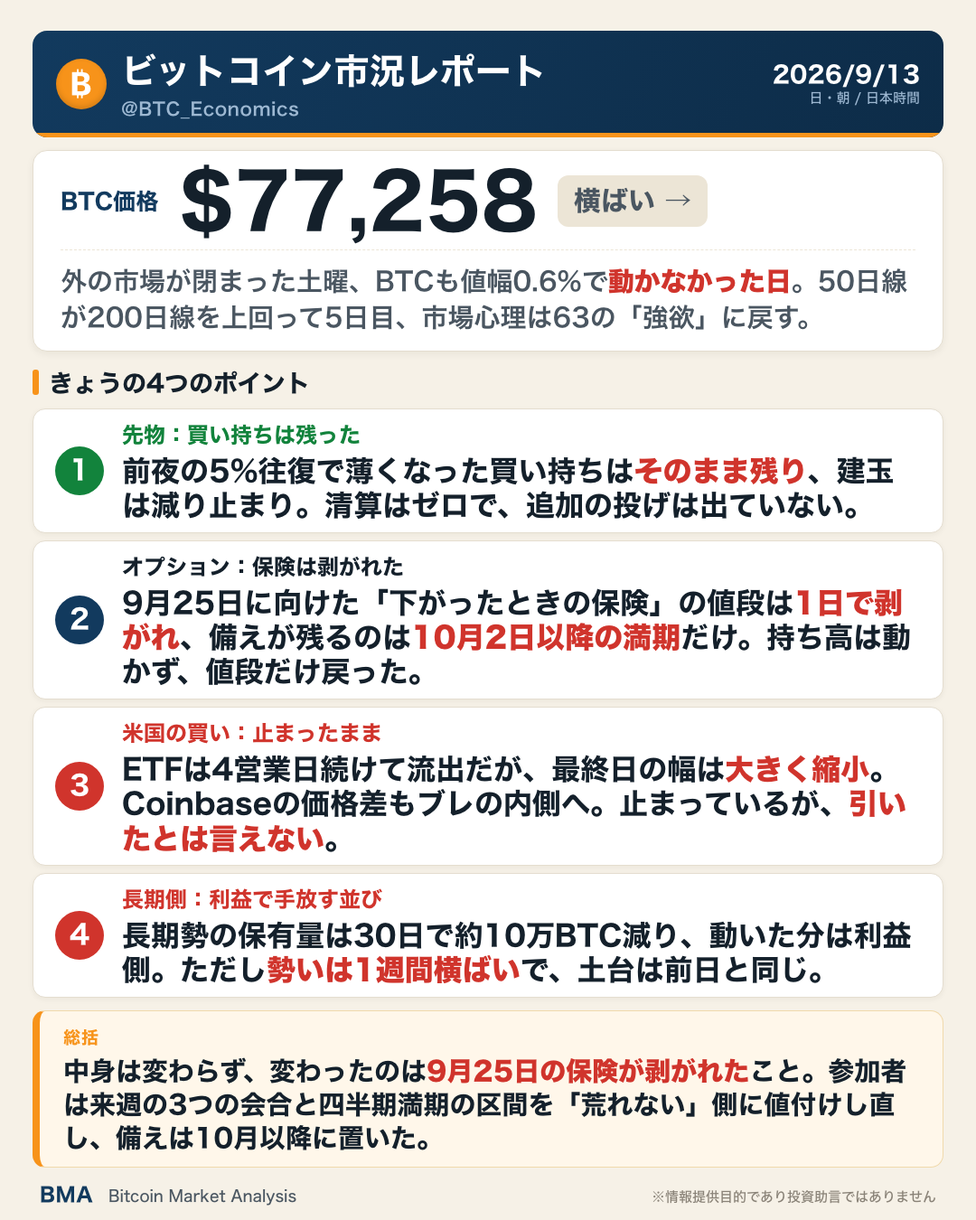
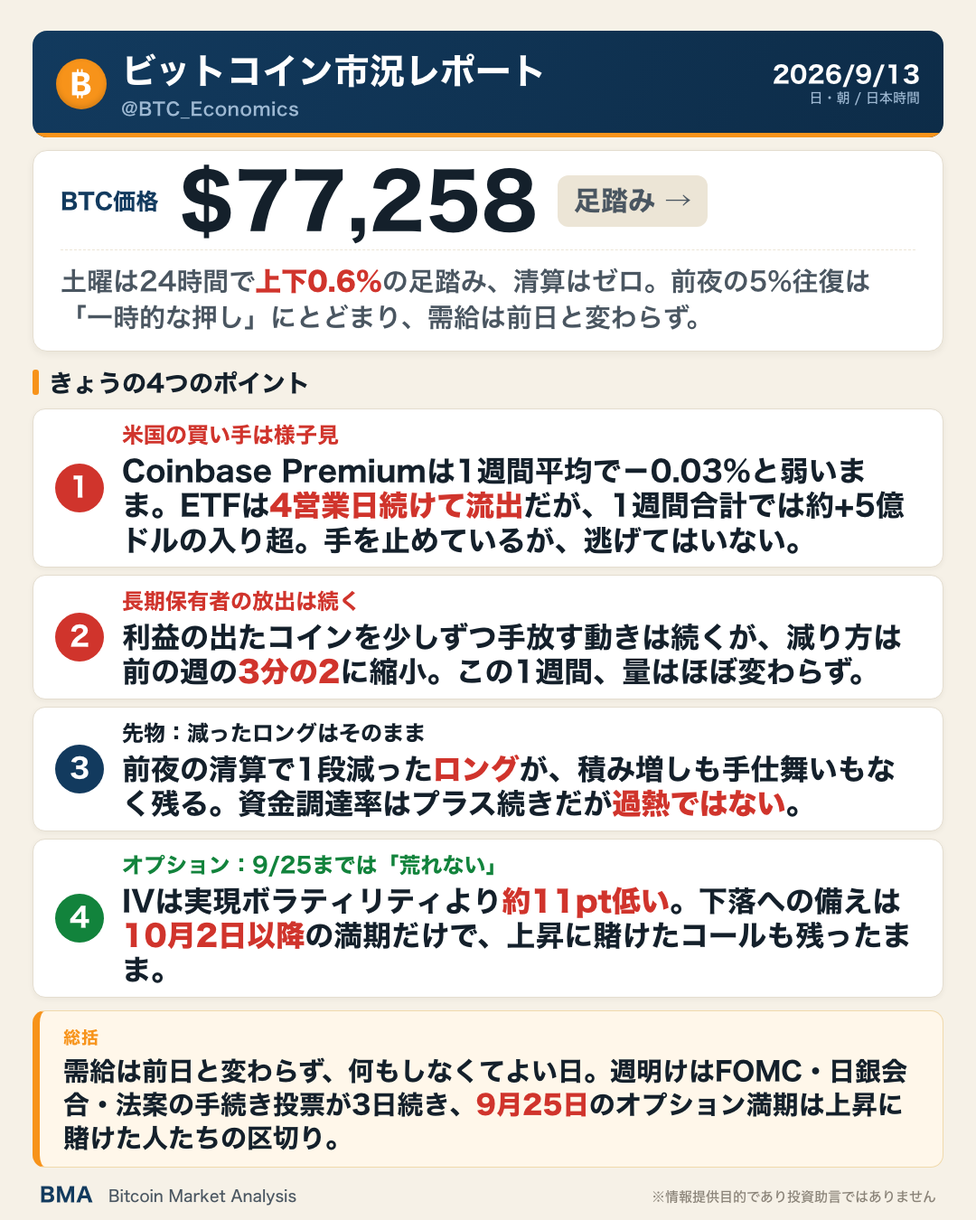
feat(market-reports): 2026-09-13 を「図 → 読み → 根拠の数値」型の生成版に差し替え
同日中の3度目の差し替え。初日の本文への指摘17点（前日の説明の節は不要・定点観測は本文へ・
図と説明を隣接・用語の3区分・証券市場と外部環境の区別・読みを先に数値を根拠に・イベントは表）を
反映した新プロンプト（dev/BMA docs/adr/0033）で同じ 9/13 のデータから生成し直したもの。
図の凡例（コール／プット・長期保有者）も更新。card・og・x_post も同じ生成回のもの。

Claude-Session: https://claude.ai/code/session_013CNs9m2S2fiXNY7GAkLf2i

diff --git a/market-reports/2026-09-13/README.md b/market-reports/2026-09-13/README.md
@@ -1,109 +1,214 @@
-# 値幅0.6%の週末、建玉は減り止まった ― 9月25日の下値の保険は1日で剥がれ、備えが残るのは10月2日以降の満期だけ
+# 清算ゼロの土曜、上下0.6%で足踏み ― 減ったロングはそのまま残り、オプションの備えは10月の満期にだけ置かれている
 
 **2026年9月13日**
 
-土曜日の24時間、価格は$77,050〜$77,495の幅0.6%に収まりました。前夜の5%往復で薄くなった先物の買い持ちはそこで減り止まり、清算はゼロ。株・原油・金利の市場は閉まっていて、BTC自身の持ち高も動いていません。**動かなかった日**です。市場参加者の見方で前日から変わったのは一つで、**9月25日に向けて前日に付いた「下がったときの保険」の値段が1日で剥がれ、備えが残っているのは10月2日以降の満期だけ**になりました。週明けには法案の採決・米国の利上げ判断・日銀の会合が3日続けて並びます。
+土曜日はほとんど動かなかった日です。24時間の値幅は$77,050〜$77,495で、上下0.6%。前の晩に5%の往復があり、そのとき証拠金で買い持ち（ロング）にしていた人の一部が清算（＝証拠金不足で強制的に閉じられた取引）されましたが、土曜日はロングの量がそれ以上減らず、清算もゼロでした。証券市場は週末で閉まっていて、ビットコインを大きく張っている人たちも動いていません。市場参加者は、前の晩の往復を「流れが変わった」ではなく「一時的な押し」と見ています。オプションでは、9月25日の満期までは「荒れない」側の値付けが並び、価格が下がったときの備えは10月2日以降の満期にだけ置かれています。週明けには法案の手続き投票・米国の利上げ判断・日銀の会合が3日続けて並びます。
 
-（数値は9月13日7時5分（日本時間）までに取得した各種データに基づきます。価格・先物・オプションはその時点の実勢、市場心理は9月12日の確定値、オンチェーン指標は9月11日時点、ETF資金フローは9月11日分までです。外部環境の終値は9月11日時点で、週末のため更新がありません。なお、オンチェーンの保有・年齢の指標には、ETF・取引所が預かっている分も含まれています。オプションはDeribit（BTCオプション建玉の大半を占める取引所）の全銘柄です。）
-
-## 定点観測：毎日同じ4つを見る
-
-話題は日替わりでも、この4つはどんな日も同じ場所に置きます。「いつもと違うか」を毎日同じ目で見るための物差しです。
-
-* **移動平均の並び**: 上向き5日目。50日線が200日線を上回るゴールデンクロス圏で、差は約$815（1.2%）と前日の$616から開きました。価格は50日線の約9%上です。
-* **米国の買い（Coinbase Premium）**: 1週間平均で−0.03%。先週は−0.02%。その日の値−0.07%は、前日の−0.19%（いつものブレの3倍）からブレの内側に戻りました。
-* **ETFの資金の出入り**: 直近7営業日で+5.4億ドルの入り超。確定分は4営業日続けて流出ですが、9月11日分は−0.1億ドルと、前日の−2.8億ドルから幅が大きく縮みました。
-* **市場心理（Fear & Greed）**: 63の「強欲」。前日の56から7pt戻し、1週間前は73、30日前は29です。
-
-![BTC価格と50日・200日移動平均](price.png)
-
-![Fear & Greed 指数](fear_greed.png)
-
-## 前日の説明の確認
-
-前日に書いた説明が、そのあとの動きと合っていたかを先に確かめます。予想の当て外れではなく、説明の妥当性の確認です。
-
-* ✔ **「5%の往復は外に押されたのではなく、証拠金の買い持ちが整理されたもの」** — 合っていました。需要の後退なら建玉が減ったあとも価格が戻らず資金調達率がマイナスに定着する形でしたが、翌日は建玉が減り止まり、資金調達率はプラスのまま、価格は$77,000台を保ちました。
-* ✘ **「9月25日をまたぐ期間の下値の保険が初めて上値の権利より高くなった＝来週の会合と四半期満期に向けた備え」** — 1日で合わなくなりました。9月25日満期の傾きは上がる権利がわずかに高い側へ戻り、持ち高は動いていません。前日の値付けは物価指標の夜に付いた一晩の値段だった、と説明し直します（下の3.②）。
-* — **「米国の現物買いは『止まった』から『引き始めた』へ動きかけている」** — まだ判定できません。Coinbase Premiumはブレの内側に戻り、ETFの9月11日分は流出幅が縮みました。「引き」は加速していませんが、週末で新しい数字がありません。
-* ✔ **「長期側は前日と同じ姿。利益での手放しが続き、勢いは半分のまま」** — 合っていました。9月11日時点も量は減り、動いた分は利益側で、1週間同じ幅です（下の3.④）。
+（数値は9月13日7時5分（日本時間）までのデータに基づきます。価格・先物・オプションはその時点の値、市場心理は9月12日の確定値、オンチェーン（＝ブロックチェーン上の記録）は9月11日時点、ETF資金フローは9月11日分までです。証券市場の終値は9月11日時点で、週末のため更新がありません。オンチェーンの長期保有者の数値には、ETFや取引所が預かっている分も含まれます。オプションはDeribit（BTCオプションの大半を占める取引所）の全銘柄です。）
 
 ## 1. 何が起きたか
 
-![BTC価格の推移（1時間足・直近7日）](intraday.png)
+**図1-1 価格の推移（1時間足・直近7日）**
 
-朝7時5分時点で約$77,258。24時間で+0.2%、レンジは$77,050〜$77,495で幅0.6%です。前夜の往復（幅5%）の8分の1で、この7日間で最も静かな24時間でした。7日前比では−3.2%、30日前比では+21.8%。Hyperliquid（＝オンチェーンの先物取引所）で観測できた清算（＝証拠金不足で強制的に閉じられた取引）は、この24時間で0件です。
+![](intraday.png)
 
-外部環境は週末で休場です。金曜9月11日の終値は、S&P500が+0.9%、原油は−2.4%でちょうど$100、米10年債利回りは4.97%。5営業日で見ると、原油が+9.6%、株が−1.2%、金が−2.8%。BTCの−3.2%は、株よりも金の下げ幅に近い並びでした。
+*図の見方: 1時間ごとの価格。金曜の夜に大きく上下した山谷のあと、土曜は線がほぼ平らです。点線は24時間前の水準。*
 
-## 2. なぜ動いたか：中身か、外か
+この1週間でいちばん静かな24時間でした。金曜の夜に集中した清算は、土曜日には1件も出ていません。
 
-![BTCと主要マクロ資産の相対推移（起点＝100）](macro_relative.png)
+* 朝7時5分の時点で約$77,258。24時間で+0.2%、値幅は0.6%。前の晩の往復（幅5%）の8分の1。
+* 1週間前と比べると−3.2%、1か月前と比べると+21.8%。
+* Hyperliquid（＝オンチェーンの先物取引所）で見える清算は、この24時間で0件。
 
-* **見える**: 外の市場が閉まっている24時間で、BTCの動きも0.6%。建玉（＝先物の未決済残高）は103,218BTCで前日（103,303BTC）とほぼ同じ、7日では−4.2%。資金調達率（＝先物の買い持ちが払う金利）は8時間あたり+0.0045%（年率換算 約+5.0%）で、前日の同じ時間帯の年率3.1%から小幅に戻りました。1日を通してならした年率は+5.69%で、短期金利（13週Tビル 3.91%）を引いた上乗せは+1.78pt。前日の+0.73pt（ならした年率+4.64%）から広がっています。清算は0件。短期保有層の平均取得原価は9月11日時点で$71,150で、価格はその約8%上です。BTCと金の30日相関は+0.69、株とは+0.20。
-* **読み**: 今日は「なぜ動いたか」を探す日ではなく、**前夜の整理が一巡して、新しい持ち高がどちら側にも積まれていない**日です。建玉が減り止まり、資金調達率がプラスのまま戻ったことは、追加の投げが出ていないことと、買い持ちが残っていることの両方を示します。参加者は前夜の5%往復を流れの変化ではなく、一時的な押しとして扱いました。直近に買った人の平均取得原価より価格が上にあるので、含み損から強いられる売りも出ていません。1週間の目で見ると、BTCは金と同じ幅で下げ、株は半分、原油は上げています。**この1週間の下げは外部環境（原油高と金利上昇）と並んで起き、土曜日はその外部環境が止まったので、BTCも止まった**、というのが最も単純な説明です。
-* **この説明が違うなら**: 一巡ではなく静かな撤退が続いているなら、週明けに外の市場が開いたあとも建玉が減り続け、資金調達率がゼロ近辺からマイナスへ沈み、上がる権利の値段が全満期で下値の保険を下回る形になります。
+**図1-2 価格と50日・200日移動平均**
 
-原油の金曜の−2.4%は、ホルムズ海峡の航行をめぐるイランと湾岸諸国の外相協議が9月14日にオマーンで開かれるという報道と並んで起きました。原油は依然$100の水準で、リスク資産全体の重しになりうる状況は変わっていません。
+![](price.png)
+
+*図の見方: 2本の平均線の上下関係が「並び」で、50日線が上なら上向きです。*
+
+前の晩の5%往復でも、50日線が200日線の上にある並びは崩れていません。差はまだ1.2%で、定着したとは言えない段階です。
+
+* 並びは50日線が200日線の上で5日目。差は約$815（1.2%）。
+* 価格は50日線の約9%上。
+
+証券市場は週末で休みです。金曜9月11日の終値は、S&P500が+0.9%、原油は−2.4%でちょうど$100、金は横ばいの$4,366、米10年債利回りは4.97%でした。
+
+## 2. なぜ動いたか：ビットコイン自身の需給か、外部環境か
+
+**図2-1 ビットコインと株・金・原油の相対推移（起点＝100）**
+
+![](macro_relative.png)
+
+*図の見方: 同じ起点から何%動いたかで重ねたもの。線が同じ向きなら「一緒に動いた」、ビットコインだけ別の向きなら「自身の理由で動いた」と読みます。*
+
+土曜日に価格が動かなかった理由は2つです。
+
+1. 証券市場が閉まっていて、原油と金利からの影響が止まっていた。この1週間の下げは、原油高と金利上昇のなかで金と同じ向きに起きていたので、それが止まればビットコインも止まる。
+2. 前の晩の清算のあと、ロングもショートも増えず、手仕舞いも出なかった。建玉は減り止まり、資金調達率はプラスのまま。
+
+前日は「価格は物価統計をはさんで$79,800と$76,000を往復し、その底でロング側の大口清算1件を伴った」と説明しました。買い手が引いていたのなら、清算のあとも価格は戻らず、資金調達率はマイナスに沈むはずです。どちらも起きていないので、前日の往復は「一時的な押し」で、流れが変わったのではありません。
+
+| この5営業日の動き（9月3日→9月11日） | 変化 |
+|---|---:|
+| ビットコイン（1週間前比） | −3.2% |
+| 金 | −2.8% |
+| 米国株（S&P500） | −1.2% |
+| 原油 | +9.6% |
+
+* 証券市場が閉まっている24時間で、ビットコインも0.6%しか動かなかった。
+* この1週間、ビットコインは金と同じくらい下げ、株はその3分の1、原油は上げた。過去30日の値動きの相関は、金と+0.69、S&P500と+0.20で、金と一緒に動く日が多い。
+* 建玉（＝先物の未決済残高。証拠金で張っている人の量）は103,218BTC。1週間では−4.2%だが、この24時間ではほぼ変わらず。
+* 資金調達率（＝ロングが払う金利。プラス＝ロングがショートより多い）はプラスのまま。1日をならした年率は+5.69%で、短期金利（13週Tビル 3.91%）を引いた上乗せは+1.78pt。前日に短期金利すれすれまで縮んだ上乗せが、戻った。
+
+この説明が違うなら、つまり「一巡した」のではなく「静かに手仕舞いが続いている」のなら、週明けに証券市場が開いたあとも建玉が減り続け、資金調達率がマイナスに沈みます。その形が出たら、この説明は取り下げます。
+
+原油の金曜の−2.4%は、ホルムズ海峡の航行をめぐるイランと湾岸諸国の外相会合が9月14日にオマーンで開かれる、という報道と同時に起きました。原油はまだ$100の水準で、リスク資産全体の重しになりうる状況は変わっていません。
 
 ## 3. 市場参加者はいまどう見ているか
 
-### ① 先物：薄くなった買い持ちが、そのまま残っている
+### ① アメリカの買い手は「手を止めている」が続き、「逃げた」わけではない
 
-![先物: 資金調達率と建玉](futures.png)
+**図①-1 Coinbase Premium（アメリカとそれ以外の価格差・直近90日）**
 
-* **見える**: 資金調達率はプラスが22回連続（約7日）で、8時間あたり+0.0045%（年率換算 約+5.0%）。30日平均（0.0066%）の7割弱の水準です。1日を通してならした年率+5.69%から短期金利（13週Tビル 3.91%）を引いた上乗せは+1.78pt。建玉は103,218BTCで、9月3日の急騰時に積まれた分が消えた水準に1日とどまっています。
-* **読み**: 買い持ち（ロング）に傾いた状態は続き、傾きは前日ほど弱くありません。前夜に1段薄くなった買い持ちが、そこから逃げもせず積み増しもせず、**そのまま残っている**形です。上限（8時間あたり±0.3%）には遠く、過熱ではありません。
-* **この説明が違うなら**: 残った買い持ちが手仕舞いに向かっているなら、週明けに建玉が再び減り、資金調達率がゼロ近辺へ沈みます。逆に新規の買い持ちが入るなら、建玉が増えて資金調達率が30日平均を上回ります。
+![](premium.png)
 
-### ② オプション：9月25日の保険は剥がれ、備えは10月2日以降の満期だけ
+*図の見方: プラス＝アメリカで買いが強い。太線が1週間平均、細線がその日の値。薄い帯は「いつものブレの範囲」です。*
 
-![オプション: 満期ごとの保険料](options_iv_term.png)
+アメリカの買い手は弱いままですが、さらに引いてはいません。前日は「アメリカとそれ以外の価格差が約10か月の集計で最も弱い水準に沈んだ」と説明しました。金曜の値はいつものブレの内側に戻り、1週間平均の下向きもわずかなので、「弱い」は続いていても「引き続けている」とは言えません。
 
-![オプション: 満期ごとの傾き](options_skew.png)
+* Coinbase Premium（＝アメリカとそれ以外の価格差）は1週間平均で−0.03%。先週の−0.02%からわずかに下向き。8月中旬は−0.10%だった。
+* その日の値は−0.07%で、いつものブレの範囲内。
 
-* **見える**: 全体の保険料は36.9で、過去1年の下から16%の位置。実際に起きた変動（47.6）より10.6pt安いままです。満期ごとの保険料は手前が低く先が高い平常の形で、9月16日（FOMCの日）にも突出はありません。**傾きは満期の途中で符号が変わっています。** 9月15日満期は上がる権利が明確に高く（+0.88）、9月25日満期は+0.11でほぼ差なし。**前日に下値の保険が高かった9月25日の値付けは1日で消え**、下値の保険が高いのは10月2日満期（−0.86）と10月30日満期（−0.56）だけになりました。
-* **読み**: 参加者は「来週の会合と法案採決、そして9月25日の四半期満期までは荒れない」という値付けに戻り、**備えを10月以降の満期に置いています**。全体の保険料が実際の変動より安いままなので、守りを固めている状態ではなく、恐怖の水準でもありません。9月15日満期で上がる権利が高いのは、法案採決の日に上への賭けが乗っている形です。持ち高（下）が変わらず値段の付き方だけ戻ったので、前日の保険は買い足されたのではなく、一晩の値段が付いて剥がれたと読みます。
-* **この説明が違うなら**: 「荒れない」という値付けが誤っているなら、週明けに9月16日・18日満期の保険料が跳ね、9月25日満期で下値の保険が再び上がる権利を上回る形になります。
+**図①-2 ETFの日ごとの資金の出入り（直近90日）**
 
-![オプション: 9月25日満期の持ち高](options_oi.png)
+![](etf_daily.png)
 
-* **見える**: 9月25日満期の持ち高は185,020BTCで全満期の45%。現値より上の権利（コール）が約9.4万BTC、下の保険（プット）が約5.4万BTCで、前日とほぼ同じ形です。現値の+15%以上に約4.9万BTC、−15%以下に約3.2万BTC。マックスペイン（＝買い手の損失が最大になる満期価格）は$72,000で、現値の7%下です。オプションの集中（＝満期に向けて価格が引き寄せられやすい水準）は$78,000に12.7%、$80,000に11.0%、$75,000に8.5%で、**価格はその帯の中**にいます。
-* **読み**: 上に賭けた持ち高のほうが多い形は変わらず、上に賭けた側は降りていません。その持ち高が報われるには帯の上端$80,000より上が要り、期限は9月25日です。マックスペインについては、満期に向けて引き寄せられる力が働くと言われる水準がいまより7%下にある、という構図の説明までにとどめます。
+*図の見方: 入ったお金と出たお金の差。上に伸びれば入り超、下に伸びれば出超。*
 
-### ③ 米国の現物買い：「止まっている」が続き、「引き」は加速していない
+ETFからの流出は4営業日続いていますが、最終日に急に縮みました。1週間の合計ではまだ入り超で、アメリカの買い手は手を止めているが、逃げてはいない、が今朝の読みです。
 
-![Coinbase Premium](premium.png)
+| ETFの日ごとの出入り | 億ドル |
+|---|---:|
+| 9月8日 | −0.5 |
+| 9月9日 | −1.2 |
+| 9月10日 | −2.8 |
+| 9月11日 | −0.1 |
+| 直近7営業日の合計 | +5.4 |
 
-![ETF 日次 純流出入](etf_daily.png)
+**図①-3 Fear & Greed（市場心理の指数・直近90日）**
 
-* **見える**: Coinbase Premium（＝米国とそれ以外の価格差）は1週間平均で−0.03%、先週の−0.02%からわずかに下向き。その日の値−0.07%はいつものブレの1.2倍で、前日の3倍から内側に戻りました。ETF（＝証券口座で買えるBTCの投資信託）は9月11日分が−0.1億ドルで、流出は4営業日連続ですが、幅は−0.5億 → −1.2億 → −2.8億 → −0.1億と最終日で急に縮みました。7営業日の合計はまだ+5.4億ドルの入り超です。
-* **読み**: 前日に「引き始めた可能性」と書いた動きは、金曜の数字では加速しませんでした。米国側の買い手は**止まっているが、引いてはいない**、が今朝の読みです。1週間平均の−0.03%は8月中旬（−0.10%）とは水準が違います。1年以上動いていない供給は9月11日時点で63.1%と3か月で1.6pt厚く、同じ規模の買いでも価格が動きやすい下地です。
-* **この説明が違うなら**: 9月14日以降も流出が続き、Premiumの1週間平均が−0.05%を下回って沈むなら、「引き始めた」に言い直します。
+![](fear_greed.png)
 
-### ④ 長期側：利益での手放しは続くが、量は1週間横ばい
+*図の見方: 0〜100で、50より上が「強欲」、下が「恐怖」。*
 
-![長期保有層: ネットポジション変化と損益](lth.png)
+市場心理は前の晩の往復で冷めることなく、「強欲」側に戻っています。価格の下げを怖がっている人は多くありません。
 
-* **見える**: 長期勢SOPR（＝長期勢の損益）は1週間平均で1.14（先週 0.99）。長期保有層のネットポジション変化（＝長期勢の保有量の30日増減）は9月11日時点で−9.9万BTC。1週間平均−9.9万BTCは先週の−15.1万BTCから3分の2に縮み、8月末（−27万BTC前後）の4割弱。この1週間は−8.4万〜−10.3万BTCの幅に収まっています。
-* **読み**: 量は減り、動いた分は利益側で、**分配（＝長期側からの放出）の並びは続いています**。ただし勢いは落ち着き、1週間同じ幅にとどまっている。土曜の静けさはこの層が動いていない結果です。**中身の土台は前日と変わっていません。** 預かり分の混入を差し引いても、この規模と方向は変わりません。
+* Fear & Greed（＝市場心理の指数）は63の「強欲」。前日の56から7pt戻した。1週間前は73、1か月前は29。
 
-今日は取得原価の分布（＝コインが最後に動いた価格の分布）に帯またぎがなく、長く眠っていたコインが動いた記録もないので、その話はありません。価格のいる$70,000〜$80,000の帯には全体の10.7%、上端の$80,000まで3.5%、その上の$80,000〜$90,000には9.4%のコインが積まれています。マイナー（＝採掘業者）の収入は平年並み（Puell 1週間平均 1.00）で、売りを急ぐ状況ではありません。
+### ② 長期保有者の分配は続いているが、量は1週間変わっていない
+
+**図②-1 長期保有者の保有量の30日変化とSOPR（直近60日）**
+
+![](lth.png)
+
+*図の見方: 上段は、長期保有者（＝155日以上動かしていないコインの持ち主）の保有量が30日でどれだけ増減したか。マイナス＝手放している。下段は長期保有者SOPR（＝長期保有者が動かしたコインの売値÷買値。1より上なら利益で手放した）。どちらも太線の1週間平均で読みます。*
+
+長期保有者は、利益の出ているコインを少しずつ手放し続けています。保有量の30日変化がマイナスで、動いたコインが利益側という2つがそろっているので、これは分配（＝長期保有者からの放出）です。ただし勢いは落ち着いていて、この1週間は量が変わっていません。土曜日の静けさは、長期保有者が動いていない結果でもあります。ビットコイン自身の需給の土台は、前日と変わっていません。ETFや取引所が預かっている分を差し引いても、この規模と向きは変わりません。
+
+| 9月11日時点 | 1週間平均 | 前の週の平均 |
+|---|---:|---:|
+| 長期保有者SOPR（1より上＝利益で手放した） | 1.14 | 0.99 |
+| 長期保有者の保有量の30日変化（万BTC） | −9.9 | −15.1 |
+
+* 減り方は前の週の3分の2に縮み、1か月前（−15.2万BTC）と比べても3分の2。この1週間は−8.4万〜−10.3万BTCの幅に収まっている。
+* 長期保有者SOPRは1週間平均で1.14。動かしたコインは平均して買値より14%高く手放された。
+* 1年以上動いていないコインは全体の63.1%で、3か月で1.6pt増えた。売りに出てくるコインが少ない下地は続いている。
+
+今日は、コインが最後に動いた価格の分布に大きな変化がなく、長く眠っていたコインが動いた記録もありません。マイナーの収入は平年並み（Puell Multiple（＝マイナー収入の平年比）が1週間平均で1.00）で、売りを急ぐ状況ではありません。
+
+### ③ 先物：減ったロングは、そのまま残っている
+
+**図③-1 資金調達率と建玉（直近30日）**
+
+![](futures.png)
+
+*図の見方: 上段は資金調達率（8時間ごと）。プラスが続く＝ロングがショートより多い。下段は建玉で、証拠金で張っている人の量。*
+
+前の晩の清算で1段減ったロング（証拠金の買い持ち）が、そこから手仕舞いもせず、積み増しもせず、そのまま残っています。ロングに傾いてはいますが、過熱ではありません。前日に短期金利すれすれまで縮んだ上乗せが+1.78ptへ戻ったので、ロングを張る人が土曜日に減ったわけではありません。
+
+* 資金調達率はプラスが22回連続（約7日）。ロングがショートより多い状態が続いている。
+* 短期金利を引いた上乗せは+1.78pt。直近34日の平均+3.44ptより小さく、上限（8時間あたり±0.3%）にはほど遠い。
+* 建玉は103,218BTC。9月3日の急騰のときに積まれた分が消えた水準に、1日とどまっている。
+
+### ④ オプション：9月25日までは「荒れない」の値付けで、備えは10月2日以降の満期だけ
+
+オプションには2種類あります。コール（＝決めた価格で買う権利）とプット（＝決めた価格で売る権利）で、価格が上がればコールの価値が上がり、価格が下がればプットの価値が上がります。プットは「価格が下がったときの保険」として買われます。
+
+**図④-1 満期ごとのIV（年率%）**
+
+![](options_iv_term.png)
+
+*図の見方: IV（＝オプション価格から逆算した、この先の値動きの幅の予想）を満期ごとに並べたもの。点線は実現ボラティリティ（＝直近30日に実際に起きた値動きの幅）。IVが点線より下なら、市場はこの先の値動きを過去の値動きより小さいと見ています。*
+
+市場はこの先の値動きを、過去の値動きより小さいと見ています。守りを固めている状態ではなく、怖がってもいません。来週の会合の日だけ身構えている、ということもありません。
+
+* IVは全体で36.9。実現ボラティリティ47.6より10.6pt低い。過去1年で下から16%の位置で、恐怖の水準ではない。
+* 満期ごとに見ても、手前が低く先が高い平常の形。FOMC（＝米国の金利を決める会合）の結果が出る9月17日早朝をまたぐ満期だけが跳ねていることはない。
+
+**図④-2 満期ごとのプットとコールの差**
+
+![](options_skew.png)
+
+*図の見方: 満期ごとに、プットとコールのどちらが高く売れているか。ゼロより上ならコールのほうが高く、下ならプットのほうが高い。*
+
+参加者は「9月25日の大きな満期までは荒れない」と値付けし、価格が下がったときの備えを10月2日以降の満期に置いています。9月15日の満期ではコールがはっきり高く、法案の手続き投票の日に「価格が上がる」に賭けている人がいる形です。
+
+| 満期 | どちらが高いか |
+|---|---|
+| 9月14日 | コールがわずかに高い |
+| 9月15日 | コールがはっきり高い |
+| 9月16日 | プットがわずかに高い |
+| 9月18日 | ほぼ差なし |
+| 9月25日 | コールがわずかに高い |
+| 10月2日 | プットが高い |
+| 10月30日 | プットが高い |
+
+* プットがはっきり高いのは10月2日と10月30日の2つの満期だけ。FOMCと日銀の会合をまたぐ9月18日の満期には、備えの値段が付いていない。
+
+**図④-3 9月25日満期の持ち高（権利の価格ごと）**
+
+![](options_oi.png)
+
+*図の見方: 青＝コール、橙＝プット。現値より上にコールが、下にプットが積まれるのが普通です。*
+
+「価格が上がる」に賭けた人たちは降りていません。この賭けが報われるには、9月25日までに、オプションの持ち高が集まっている$75,000〜$80,000の帯の上端$80,000を超える必要があります。
+
+| 9月25日満期のオプション（価格は$77,000台後半） | 量（万BTC） | 意味 |
+|---|---:|---|
+| いまより高い価格のコール | 約9.4 | 「価格が上がる」に賭けた分 |
+| いまより安い価格のプット | 約5.4 | 「価格が下がる」への備え |
+| うち、いまより15%以上高い価格のコール | 約4.9 | 大きな上げへの賭け |
+| うち、いまより15%以上安い価格のプット | 約3.2 | 大きな下げへの備え |
+
+* 9月25日満期の持ち高は全部で185,020BTCと、全満期の45%。コールがプットの1.9倍。
+* 持ち高が集まっている価格は$78,000、$80,000、$75,000の帯。いまの価格はその帯の中。
 
 ## 4. 価格に影響しうる直近のイベント
 
-予測ではなく、「次に市場が反応しうる材料」の案内です。オプション市場が備えを置いているのは10月2日以降の満期で、来週の3つの会合と9月25日の区間には、今朝の時点で備えの値段が付いていません。
+予測ではなく、「次に市場が反応しうる材料」の案内です。オプション市場が備えを置いているのは10月2日以降の満期で、来週の会合3つと9月25日の区間には、今朝の時点で備えの値段が付いていません。
 
-* **9/14（月）**: ETFの集計と米国の株・原油・金利の取引が再開。米国の買いが「止まっている」のままかどうかの最初の数字。
-* **9/14（月）**: ホルムズ海峡の航行をめぐるイランと湾岸諸国の外相協議（オマーン・サラーラ）。原油に効く。
-* **9/15（火）〜16（水）**: FOMC（＝米国の金利を決める会合）。0.25%利上げの織り込みは6〜8割と報じられている。結果は日本時間17日早朝。
-* **9/15（火）14:15 米東部時間（日本時間16日3:15）**: 米上院でCLARITY法案（＝暗号資産の市場構造法案）を審議に進めるかの手続き投票。60票が必要。オプションの9月15日満期で上がる権利が高いのはこの日。
-* **9/17（木）〜18（金）**: 日銀の会合。0.25%利上げの織り込みは6割と報じられている。
-* **9/25（金）17:00**: オプションの四半期満期（約18.5万BTC、全満期の45%）。上に賭けた持ち高の期限。
+| 日付 | イベント | 何に効くか |
+|---|---|---|
+| 9/14（月） | ETFの集計と証券市場の取引が再開 | アメリカの買い手が「手を止めている」ままかどうかの最初の数値 |
+| 9/14（月） | ホルムズ海峡の航行をめぐるイランと湾岸諸国の外相会合（オマーン） | 原油 |
+| 9/15（火）〜16（水） | FOMC。0.25%利上げが多数派の見方。結果は日本時間17日早朝 | 金利 |
+| 9/16（水）3:15 日本時間 | 米上院でCLARITY法案（＝暗号資産の市場構造法案）を審議に進めるかの手続き投票。60票が必要 | 9月15日満期でコールが高いのはこの日 |
+| 9/17（木）〜18（金） | 日銀の会合。0.25%利上げの見方が優勢 | 円 |
+| 9/25（金）17:00 | オプションの大きな満期（約18.5万BTC、全満期の45%） | 「価格が上がる」に賭けた人たちの期限 |
 
 ## まとめ：土曜日の動きは何だったか
 
-土曜日は、外部環境が止まり、BTCの持ち高も止まった日でした。建玉は減り止まり、清算はゼロ、長期側は前日と同じ姿。中身は変わっていません。変わったのは一つ、**9月25日に向けて前日に付いた「下がったときの保険」が1日で剥がれ、備えが10月2日以降の満期にだけ残った**こと。参加者は来週の3つの会合と四半期満期の区間を「荒れない」側に値付けし直し、上に賭けた持ち高もそのまま残しています。米国の現物買いは「止まっている」が続き、「引いた」とは言えない。中身が変わっていない日は、何もしなくてよい日です。週明けに動くのは外部環境のほうで、それを同じ4つの物差しで見ます。
+土曜日は、証券市場が止まり、ビットコインを張っている人たちも止まった日でした。ロングの量は減り止まり、清算はゼロ、長期保有者は前日と同じ姿。ビットコイン自身の需給は変わっていません。前日の5%往復は「一時的な押し」で、買い手が引いたのではないことが、土曜日の数値で裏づけられました。アメリカの買い手は「手を止めている」が続き、「逃げた」とは言えません。オプションの参加者は9月25日の満期までを「荒れない」側に値付けし、コールの持ち高もそのまま残しています。備えを置いているのは10月2日以降の満期だけです。需給が変わっていない日は、何もしなくてよい日です。週明けに動くのは証券市場と外部環境のほうで、それを移動平均の並び・アメリカの買い・ETF・市場心理の同じ物差しで見ます。
 
 ---
 

diff --git a/market-reports/README.md b/market-reports/README.md
@@ -4,7 +4,7 @@
 
 ## 2026年9月
 
-- **9月13日** — [値幅0.6%の週末、建玉は減り止まった ― 9月25日の下値の保険は1日で剥がれ、備えが残るのは10月2日以降の満期だけ](2026-09-13/)
+- **9月13日** — [清算ゼロの土曜、上下0.6%で足踏み ― 減ったロングはそのまま残り、オプションの備えは10月の満期にだけ置かれている](2026-09-13/)
 - **9月12日** — [物価指標をはさんで$79,800と$76,000を往復 ― 大口ロング1件の清算を伴い、米国の買いは10か月で最も弱い水準へ](2026-09-12/)
 - **9月11日** — [週の安値$76,600まで押して7日前比-5% ― 長期側で動いた分は原価割れに転じ、米国の買いは3週間半ぶりの弱さ](2026-09-11/)
 - **9月10日** — [ブレント原油が$100に乗せた日、BTCは値幅2.4%の小動き ― 長期側の減少幅は5日ぶりに縮み、心理は5日続けて後退](2026-09-10/)
